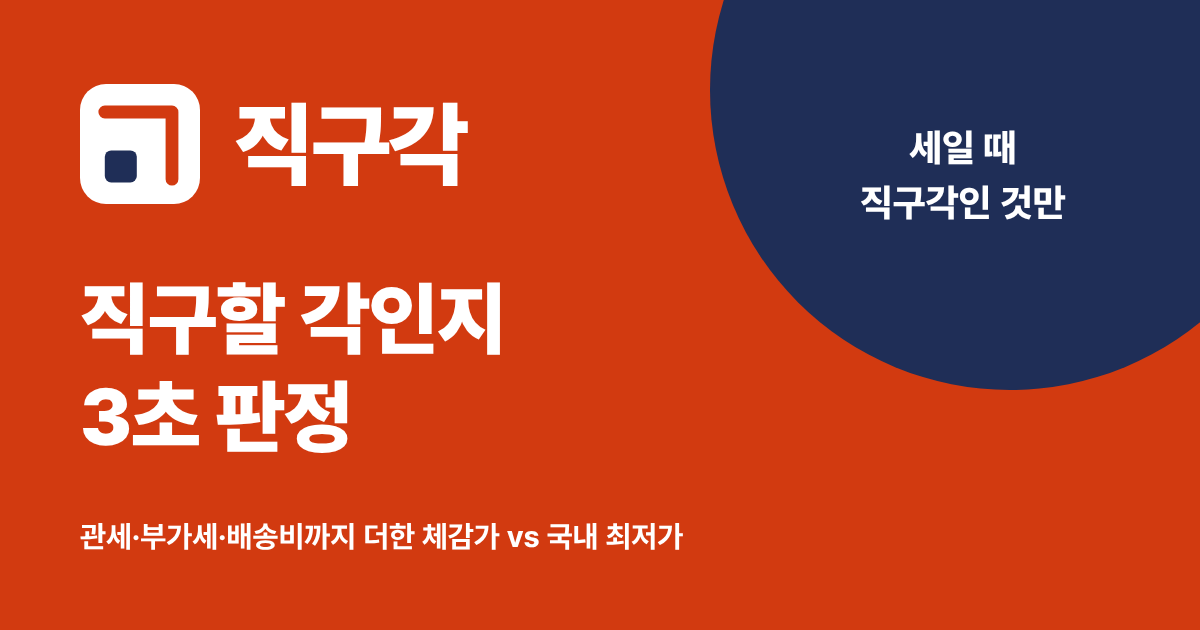
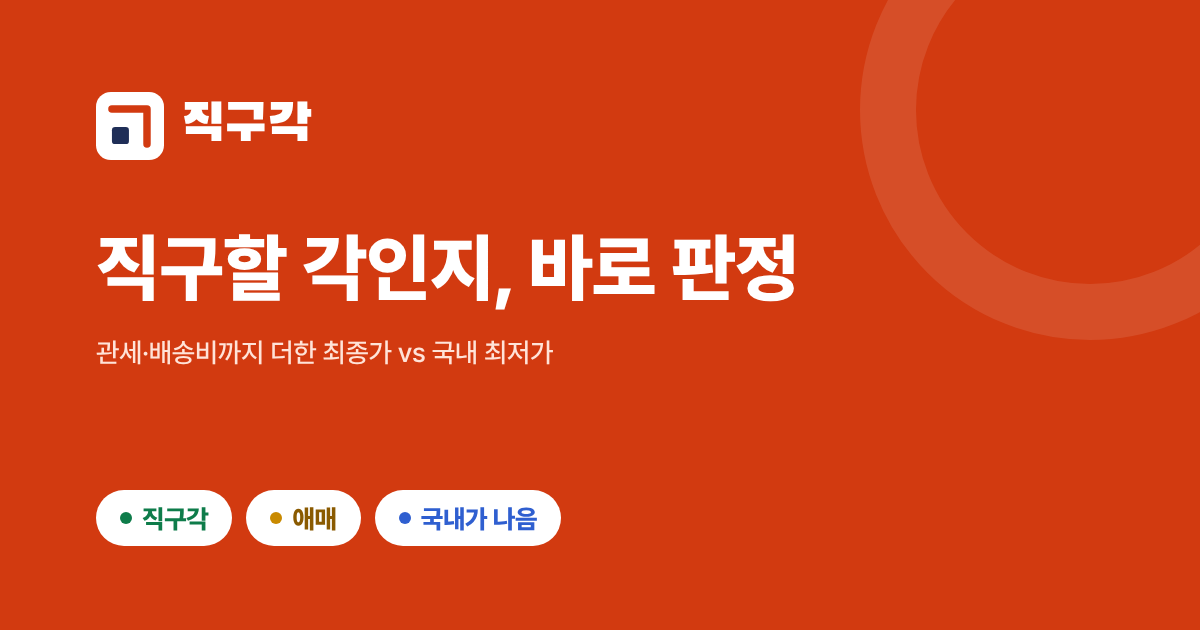
공유 미리보기 이미지 새 디자인(주황 B안: 직구할 각인지, 바로 판정 + 판정 3단계)
- 노란 원·3초 판정 문구 제거, 원본 HTML은 tools/og/og.html
- 캐시 갱신용 버전 ?v=20261026b

Claude-Session: https://claude.ai/code/session_01Wm9FFercjnDZHGUirmKXX2

diff --git a/tools/og/og.html b/tools/og/og.html
@@ -1,0 +1,85 @@
+<!doctype html><html><head><meta charset="utf-8"><style>
+@font-face{font-family:BHS;src:url(../cards/fonts/BlackHanSans-Regular.ttf)}
+@font-face{font-family:PT;src:url(../cards/fonts/PretendardVariable.ttf);font-weight:100 900}
+*{margin:0;box-sizing:border-box}
+html,body{width:1200px;height:630px;overflow:hidden;font-family:PT,sans-serif;letter-spacing:-0.02em}
+.v{position:absolute;inset:0;display:none}
+body[data-v=a] .a,body[data-v=b] .b,body[data-v=c] .c{display:block}
+.brand{display:flex;align-items:center;gap:18px}
+.word{font-family:BHS;line-height:1}
+.chip{display:inline-flex;align-items:center;gap:10px;height:56px;padding:0 24px;border-radius:999px;font-weight:800;font-size:26px}
+.dot{width:12px;height:12px;border-radius:50%}
+.g{background:#E3F3EA;color:#0E7C4A}.g .dot{background:#0E7C4A}
+.m{background:#FFF1CC;color:#8A5A00}.m .dot{background:#C98A00}
+.n{background:#E8EEFC;color:#2F5FD0}.n .dot{background:#2F5FD0}
+
+/* A: 흰 바탕 + 오른쪽 판정 카드 */
+.a{background:#FFFFFF}
+.a .left{position:absolute;left:84px;top:84px;width:560px}
+.a .word{font-size:46px;color:#D23A10}
+.a h1{margin-top:74px;font-size:66px;line-height:1.18;font-weight:850;color:#16181D}
+.a h1 em{font-style:normal;color:#D23A10}
+.a p{margin-top:26px;font-size:26px;line-height:1.5;color:#5B6170;font-weight:500}
+.a .panel{position:absolute;right:84px;top:84px;width:400px;height:462px;border-radius:32px;background:#F5F6F8;padding:40px 36px;display:flex;flex-direction:column;gap:18px}
+.a .row{background:#fff;border-radius:20px;padding:22px 24px;display:flex;justify-content:space-between;align-items:center;font-size:22px;color:#5B6170;font-weight:600}
+.a .bar{height:14px;border-radius:7px;background:#D5D8DE}
+.a .row b{display:block;width:120px}
+.a .verdict{margin-top:auto;display:flex;flex-direction:column;gap:12px}
+.a .stripe{position:absolute;left:0;top:0;bottom:0;width:14px;background:#D23A10}
+
+/* B: 주황 바탕 정돈 */
+.b{background:#D23A10;color:#fff}
+.b .inner{position:absolute;left:96px;top:92px;right:96px}
+.b .word{font-size:52px}
+.b h1{margin-top:66px;font-size:74px;line-height:1.16;font-weight:850}
+.b p{margin-top:24px;font-size:27px;font-weight:500;color:#FFE3D8}
+.b .chips{position:absolute;left:96px;bottom:84px;display:flex;gap:14px}
+.b .chip{background:#fff}
+.b .corner{position:absolute;right:-120px;top:-120px;width:460px;height:460px;border:56px solid rgba(255,255,255,.10);border-radius:50%}
+.b .mark{position:absolute;right:96px;bottom:84px;width:188px;height:188px}
+
+/* C: 남색 바탕 */
+.c{background:#1F2E57;color:#fff}
+.c .inner{position:absolute;left:96px;top:92px;width:640px}
+.c .word{font-size:50px}
+.c h1{margin-top:68px;font-size:70px;line-height:1.18;font-weight:850}
+.c h1 em{font-style:normal;color:#FF8A5C}
+.c p{margin-top:24px;font-size:26px;color:#C9D2E8;font-weight:500}
+.c .stack{position:absolute;right:96px;top:50%;transform:translateY(-50%);display:flex;flex-direction:column;gap:16px;align-items:flex-end}
+.c .stack .chip{height:64px;font-size:30px;padding:0 30px}
+.c .rule{position:absolute;left:96px;bottom:70px;right:96px;height:2px;background:rgba(255,255,255,.12)}
+.c .url{position:absolute;left:96px;bottom:30px;font-size:22px;color:#8E9AC0;font-weight:600}
+</style></head><body data-v="b">
+
+<div class="v a"><div class="stripe"></div>
+ <div class="left">
+  <div class="brand"><svg width="64" height="64" viewBox="0 0 64 64"><rect width="64" height="64" rx="14" fill="#D23A10"/><rect x="15" y="33" width="16" height="16" rx="3" fill="#1F2E57"/><path d="M15 16H48V49" fill="none" stroke="#fff" stroke-width="7" stroke-linecap="round" stroke-linejoin="round"/></svg><span class="word">직구각</span></div>
+  <h1>직구할 <em>각</em>인지<br>바로 판정해요</h1>
+  <p>관세·부가세·배송비까지 더한 최종가를<br>국내 최저가와 같은 모델끼리 비교</p>
+ </div>
+ <div class="panel">
+  <div class="row"><span>해외 최종가</span><b><div class="bar" style="width:70px;background:#D23A10"></div></b></div>
+  <div class="row"><span>국내 최저가</span><b><div class="bar" style="width:120px;background:#1F2E57"></div></b></div>
+  <div class="verdict"><span class="chip g"><i class="dot"></i>직구각</span><span class="chip m"><i class="dot"></i>애매</span><span class="chip n"><i class="dot"></i>국내가 나음</span></div>
+ </div>
+</div>
+
+<div class="v b"><div class="corner"></div>
+ <div class="inner">
+  <div class="brand"><svg width="68" height="68" viewBox="0 0 64 64"><rect width="64" height="64" rx="14" fill="#fff"/><rect x="15" y="33" width="16" height="16" rx="3" fill="#1F2E57"/><path d="M15 16H48V49" fill="none" stroke="#D23A10" stroke-width="7" stroke-linecap="round" stroke-linejoin="round"/></svg><span class="word">직구각</span></div>
+  <h1>직구할 각인지, 바로 판정</h1>
+  <p>관세·배송비까지 더한 최종가 vs 국내 최저가</p>
+ </div>
+ <div class="chips"><span class="chip g"><i class="dot"></i>직구각</span><span class="chip m"><i class="dot"></i>애매</span><span class="chip n"><i class="dot"></i>국내가 나음</span></div>
+</div>
+
+<div class="v c">
+ <div class="inner">
+  <div class="brand"><svg width="66" height="66" viewBox="0 0 64 64"><rect width="64" height="64" rx="14" fill="#D23A10"/><rect x="15" y="33" width="16" height="16" rx="3" fill="#1F2E57"/><path d="M15 16H48V49" fill="none" stroke="#fff" stroke-width="7" stroke-linecap="round" stroke-linejoin="round"/></svg><span class="word">직구각</span></div>
+  <h1>직구할 <em>각</em>인지<br>바로 판정해요</h1>
+  <p>관세·부가세·배송비까지 더한 최종가 vs 국내 최저가</p>
+ </div>
+ <div class="stack"><span class="chip g"><i class="dot"></i>직구각</span><span class="chip m"><i class="dot"></i>애매</span><span class="chip n"><i class="dot"></i>국내가 나음</span></div>
+ <div class="rule"></div><div class="url">jikgugak.com</div>
+</div>
+</body></html>

diff --git a/docs/status.md b/docs/status.md
@@ -56,7 +56,7 @@
 - [ ] `content/2026-10-23-series-3-iherb-shipping`은 락토비프 숫자 기준이라 쓰려면 다시 계산.
 
 **운영자**
-- [ ] 카카오 공유 디버거(https://developers.kakao.com/tool/debugger/sharing)에서 `https://www.jikgugak.com`·`https://jikgugak.com` 캐시 초기화(10/26 공유 이미지 주소에 `?v=20261026` 붙임, 예전 ㄴ 로고 미리보기 갱신용).
+- [ ] 카카오 공유 디버거(https://developers.kakao.com/tool/debugger/sharing)에서 `https://www.jikgugak.com`·`https://jikgugak.com` 캐시 초기화(10/26 공유 이미지를 주황 시안 B로 새로 만들고 주소에 `?v=20261026b` 붙임. 원본 `tools/og/og.html`, 시안 a·b·c는 body data-v로 바꿔요).
 - [ ] 네이버 서치어드바이저에서 `https://www.jikgugak.com/deals/1111` 웹 페이지 수집 요청(구글은 10/26 완료).
 - [ ] 인스타·스레드 프로필 링크: `https://www.jikgugak.com/deals/1111?utm_source=instagram` / `?utm_source=threads`. 프로필 사진: `brand/profile-1080.png`.
 - [ ] 10/29~10/31 네이버 N1 글 올리기(키트).
